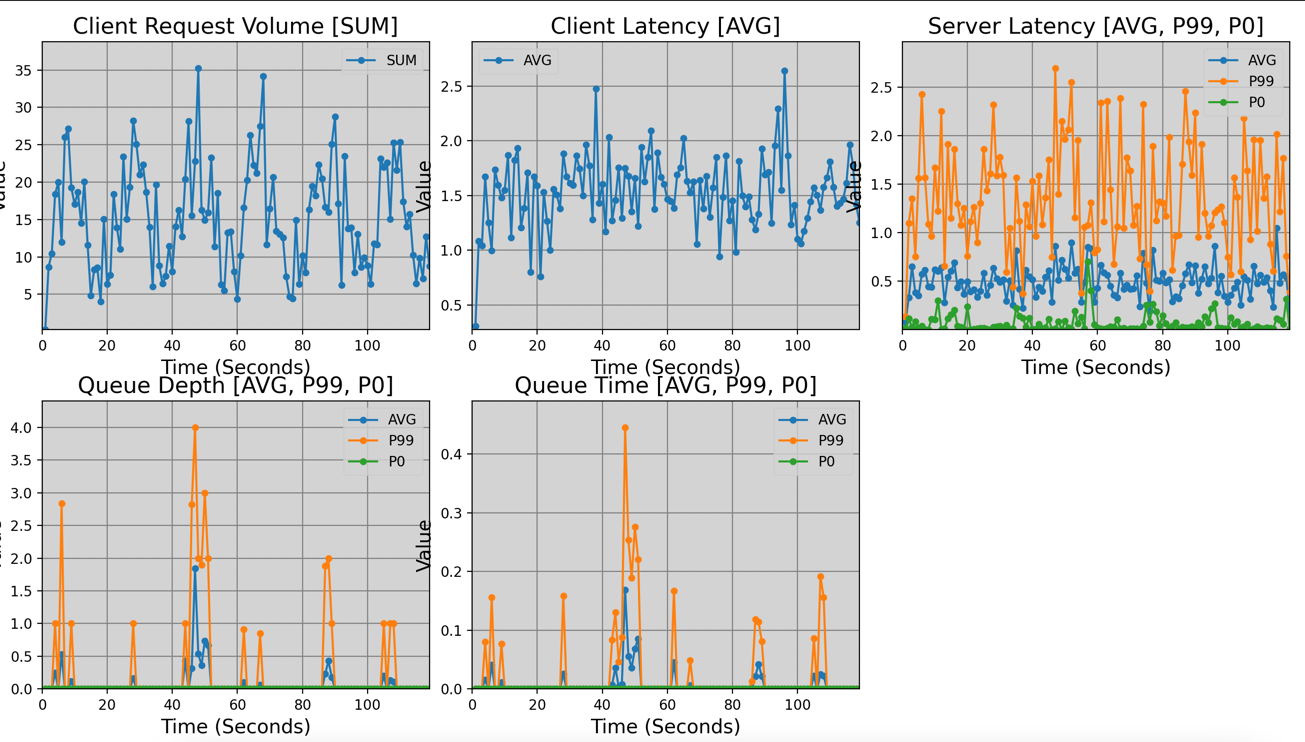
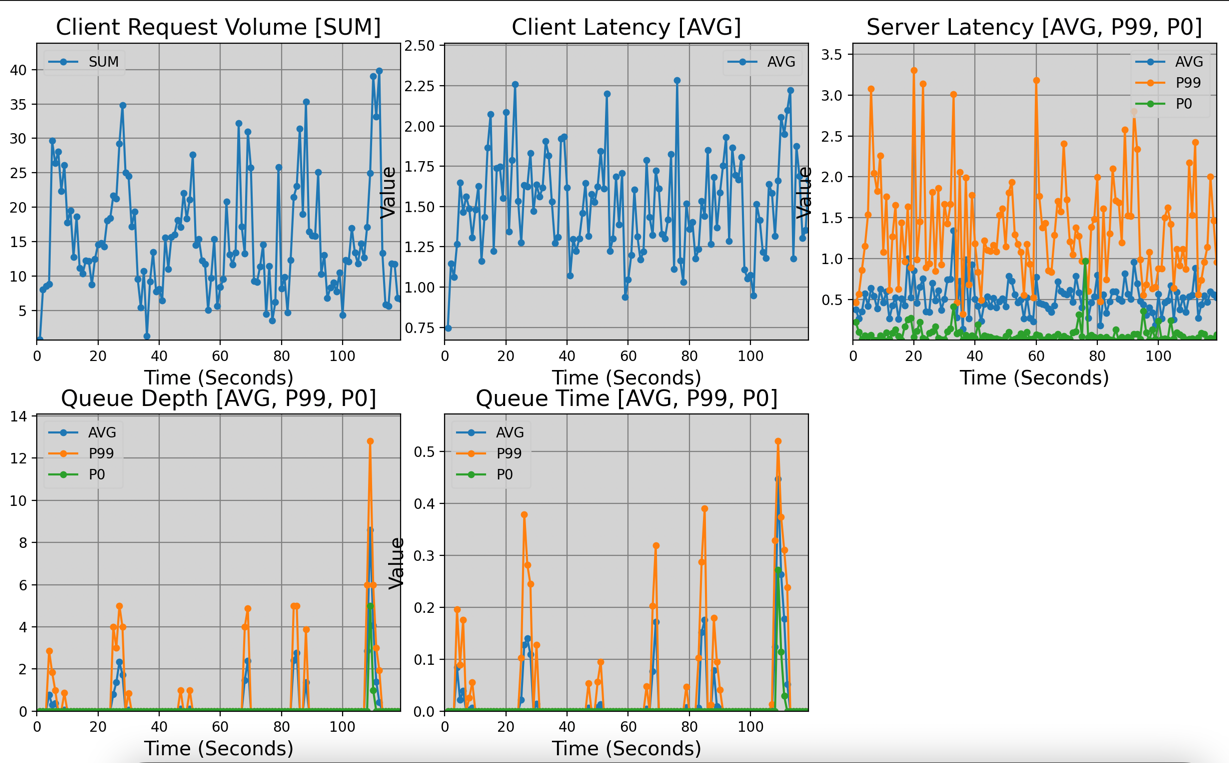
Example

Changed region(s): [[0.0, 0.0, 1.0, 1.0]]

diff --git a/examples/queued_server_example.py b/examples/queued_server_example.py
@@ -16,7 +16,7 @@ client = Client(name="BasicClient")
 queue = Queue(name="MyQueue") # unbounded FIFO queue
 server = QueuedServer(name="MyQueuedServer",
                       server_latency=ExponentialLatency(Time.from_seconds(0.5)),
-                      threads=10,
+                      threads=15,
                       queue=queue)
 
 network_latency = ExponentialLatency(Time.from_seconds(0.5))
@@ -26,7 +26,7 @@ profile = SinusoidProfile(shift=10, amplitude=5, period=Time.from_seconds(20))
 request_number = 0
 request_generator = Generator(func=lambda time: [Request(time=time, client=client, server=server, callback=client.send_request, network_latency=network_latency)],
                               profile=profile,
-                              distribution=ArrivalDistribution.CONSTANT)
+                              distribution=ArrivalDistribution.POISSON)
 
 simulation_run_result = Simulation(
     end_time=Time.from_seconds(120),

diff --git a/README.md b/README.md
@@ -79,11 +79,21 @@ simulation_run_result.display_graphs()
 
 Look at how when the traffic volume peaks, we get some queue build up in the server:
 
-![img.png](img/charts.png)
+![img.png](img/charts.png)!
 
 There are detailed logs, giving some insight into what the server is up to when there is a queue build up:
 
 ![img.png](img/logs.png)
+
+Not suprisingly, when the rate increases (peak of the sinusoid), the poisson arrival rate overloads our server, and a queue
+builds up. 
+
+Time to increase our server concurrency! If I increase them to 15 what happens?
+
+![img.png](img/queuedepth.png)
+
+Much better!
+
 
 ## Development Plan
 * Add oX and uX statistics (i.e. over X and under X)
